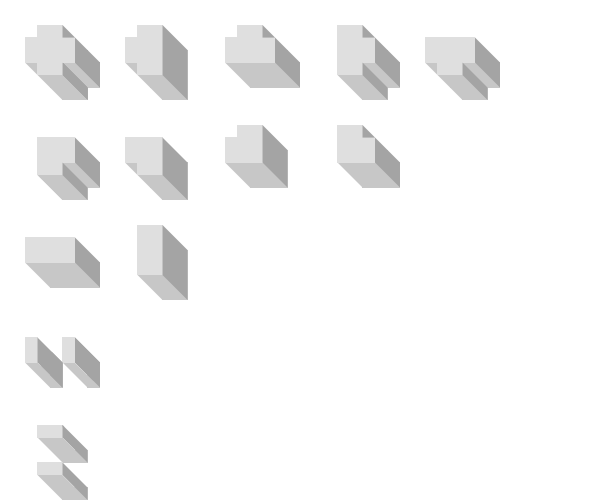
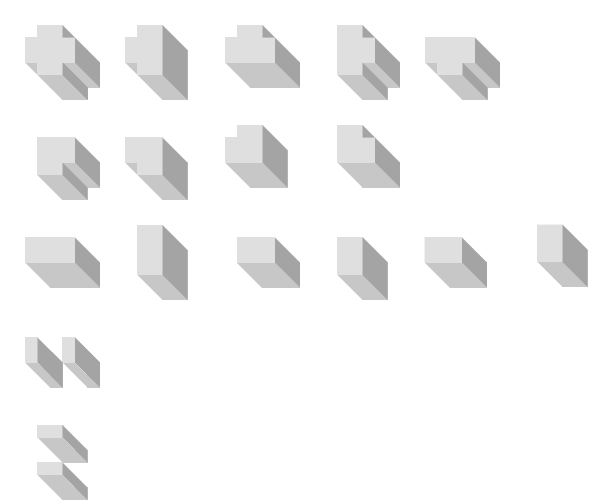
added different methods for map to read from image (square, cross). Spacing between Tiles now dynamic (parameter to sprite)

diff --git a/script/js/game.js b/script/js/game.js
@@ -102,10 +102,9 @@
   Map = (function() {
     function Map(hash) {
       this.map = hash["map"];
-      this.pattern = hash["pattern"];
       this.sprite = hash["sprite"];
       this.tiles = [];
-      this.loadMapDataFromImage(this.map);
+      this.loadMapDataFromImage(this.map, hash["pattern"]);
     }
     Map.prototype.render = function(ctx) {
       var tile, _i, _len, _ref, _results;
@@ -119,19 +118,19 @@
       }
       return _results;
     };
-    Map.prototype.loadMapDataFromImage = function(file) {
+    Map.prototype.loadMapDataFromImage = function(file, pattern) {
       var m, map;
       map = new Image();
       map.src = file;
       m = [];
       return $(map).load(__bind(function() {
-        var canvas, col, ctx, data, i, p, row, type, z, _len, _ref, _ref2, _results, _step;
+        var canvas, col, ctx, data, i, p, row, type, z, _len, _ref, _ref2, _ref3, _ref4, _results, _results2, _results3, _step, _step2;
         canvas = document.createElement("canvas");
         canvas.width = map.width;
         canvas.height = map.height;
         ctx = canvas.getContext("2d");
         ctx.drawImage(map, 0, 0);
-        data = ctx.getImageData(0, 0, 15, 15).data;
+        data = ctx.getImageData(0, 0, map.width, map.height).data;
         for (i = 0, _len = data.length, _step = 4; i < _len; i += _step) {
           p = data[i];
           row = Math.floor((i / 4) / map.width);
@@ -142,20 +141,53 @@
           };
           m[row].push([Number(data[i]).toHex(), Number(data[i + 1]).toHex(), Number(data[i + 2]).toHex(), Number(data[i + 3]).toHex()]);
         }
-        _results = [];
-        for (row = 0, _ref2 = map.width - 2; 0 <= _ref2 ? row <= _ref2 : row >= _ref2; 0 <= _ref2 ? row++ : row--) {
-          _results.push((function() {
-            var _ref3, _results2;
+        switch (pattern) {
+          case "simple":
+            _results = [];
+            for (row = 0, _ref2 = map.width - 1; 0 <= _ref2 ? row <= _ref2 : row >= _ref2; 0 <= _ref2 ? row++ : row--) {
+              _results.push((function() {
+                var _ref3, _results2;
+                _results2 = [];
+                for (col = 0, _ref3 = map.height - 1; 0 <= _ref3 ? col <= _ref3 : col >= _ref3; 0 <= _ref3 ? col++ : col--) {
+                  type = m[row][col][0];
+                  z = parseInt(m[row][col][2], 16);
+                  _results2.push(this.tiles.push(new Tile(this.sprite, type, row, col, z)));
+                }
+                return _results2;
+              }).call(this));
+            }
+            return _results;
+            break;
+          case "square":
             _results2 = [];
-            for (col = 0, _ref3 = map.height - 2; 0 <= _ref3 ? col <= _ref3 : col >= _ref3; 0 <= _ref3 ? col++ : col--) {
-              type = "" + m[row][col][0] + m[row][col + 1][0] + m[row + 1][col][0] + m[row + 1][col + 1][0];
-              z = parseInt(m[row][col][2], 16);
-              _results2.push(this.tiles.push(new Tile(this.sprite, type, row, col, z)));
+            for (row = 0, _ref3 = map.width - 2; 0 <= _ref3 ? row <= _ref3 : row >= _ref3; 0 <= _ref3 ? row++ : row--) {
+              _results2.push((function() {
+                var _ref4, _results3;
+                _results3 = [];
+                for (col = 0, _ref4 = map.height - 2; 0 <= _ref4 ? col <= _ref4 : col >= _ref4; 0 <= _ref4 ? col++ : col--) {
+                  type = "" + m[row][col][0] + m[row][col + 1][0] + m[row + 1][col][0] + m[row + 1][col + 1][0];
+                  z = parseInt(m[row][col][2], 16);
+                  _results3.push(this.tiles.push(new Tile(this.sprite, type, row, col, z)));
+                }
+                return _results3;
+              }).call(this));
             }
             return _results2;
-          }).call(this));
+            break;
+          case "cross":
+            _results3 = [];
+            for (row = 1, _ref4 = map.width - 2, _step2 = 2; 1 <= _ref4 ? row <= _ref4 : row >= _ref4; row += _step2) {
+              _results3.push((function() {
+                var _ref5, _results4, _step3;
+                _results4 = [];
+                for (col = 1, _ref5 = map.height - 2, _step3 = 2; 1 <= _ref5 ? col <= _ref5 : col >= _ref5; col += _step3) {
+                  _results4.push(m[row][col][0] !== "00" ? (type = "" + m[row - 1][col][0] + m[row][col + 1][0] + m[row + 1][col][0] + m[row][col - 1][0], z = parseInt(m[row][col][2], 16), this.tiles.push(new Tile(this.sprite, type, row / 2, col / 2, z))) : void 0);
+                }
+                return _results4;
+              }).call(this));
+            }
+            return _results3;
         }
-        return _results;
       }, this));
     };
     return Map;
@@ -170,7 +202,7 @@
     }
     Tile.prototype.render = function(ctx) {
       ctx.save();
-      ctx.translate(this.col * 87, this.row * 87);
+      ctx.translate(this.col * this.sprite.innerWidth, this.row * this.sprite.innerHeight);
       this.sprite.render(this.type, ctx);
       return ctx.restore();
     };
@@ -232,6 +264,8 @@
       var i, key, _ref, _ref2;
       this.width = hash["width"];
       this.height = hash["height"];
+      this.innerWidth = hash["innerWidth"];
+      this.innerHeight = hash["innerHeight"];
       this.texWidth = hash["texWidth"];
       this.key = (_ref = hash["key"]) != null ? _ref : {};
       this.assets = {};
@@ -325,11 +359,13 @@
   StateIntro = (function() {
     __extends(StateIntro, State);
     function StateIntro() {
-      var beach3d, i, _fn;
+      var beach3d, i, maze, _fn;
       beach3d = new Sprite({
         "texture": "assets/images/beach3d.png",
         "width": 107,
         "height": 107,
+        "innerWidth": 87,
+        "innerHeight": 87,
         "texWidth": 428,
         "key": {
           "dd00dddd": 0,
@@ -350,8 +386,35 @@
           "00dddd00": 15
         }
       });
+      maze = new Sprite({
+        "texture": "assets/images/walls.png",
+        "width": 100,
+        "height": 100,
+        "innerWidth": 50,
+        "innerHeight": 50,
+        "texWidth": 600,
+        "key": {
+          "dddddddd": 0,
+          "dd00dddd": 1,
+          "dddd00dd": 2,
+          "dddddd00": 3,
+          "00dddddd": 4,
+          "00000000": 5,
+          "00dddd00": 6,
+          "0000dddd": 7,
+          "dd0000dd": 8,
+          "dddd0000": 9,
+          "00dd00dd": 12,
+          "dd00dd00": 13,
+          "00dd0000": 14,
+          "0000dd00": 15,
+          "000000dd": 16,
+          "dd000000": 17
+        }
+      });
       this.map = new Map({
         "map": "assets/minimap.png",
+        "overlap": 87,
         "pattern": "square",
         "sprite": beach3d
       });
